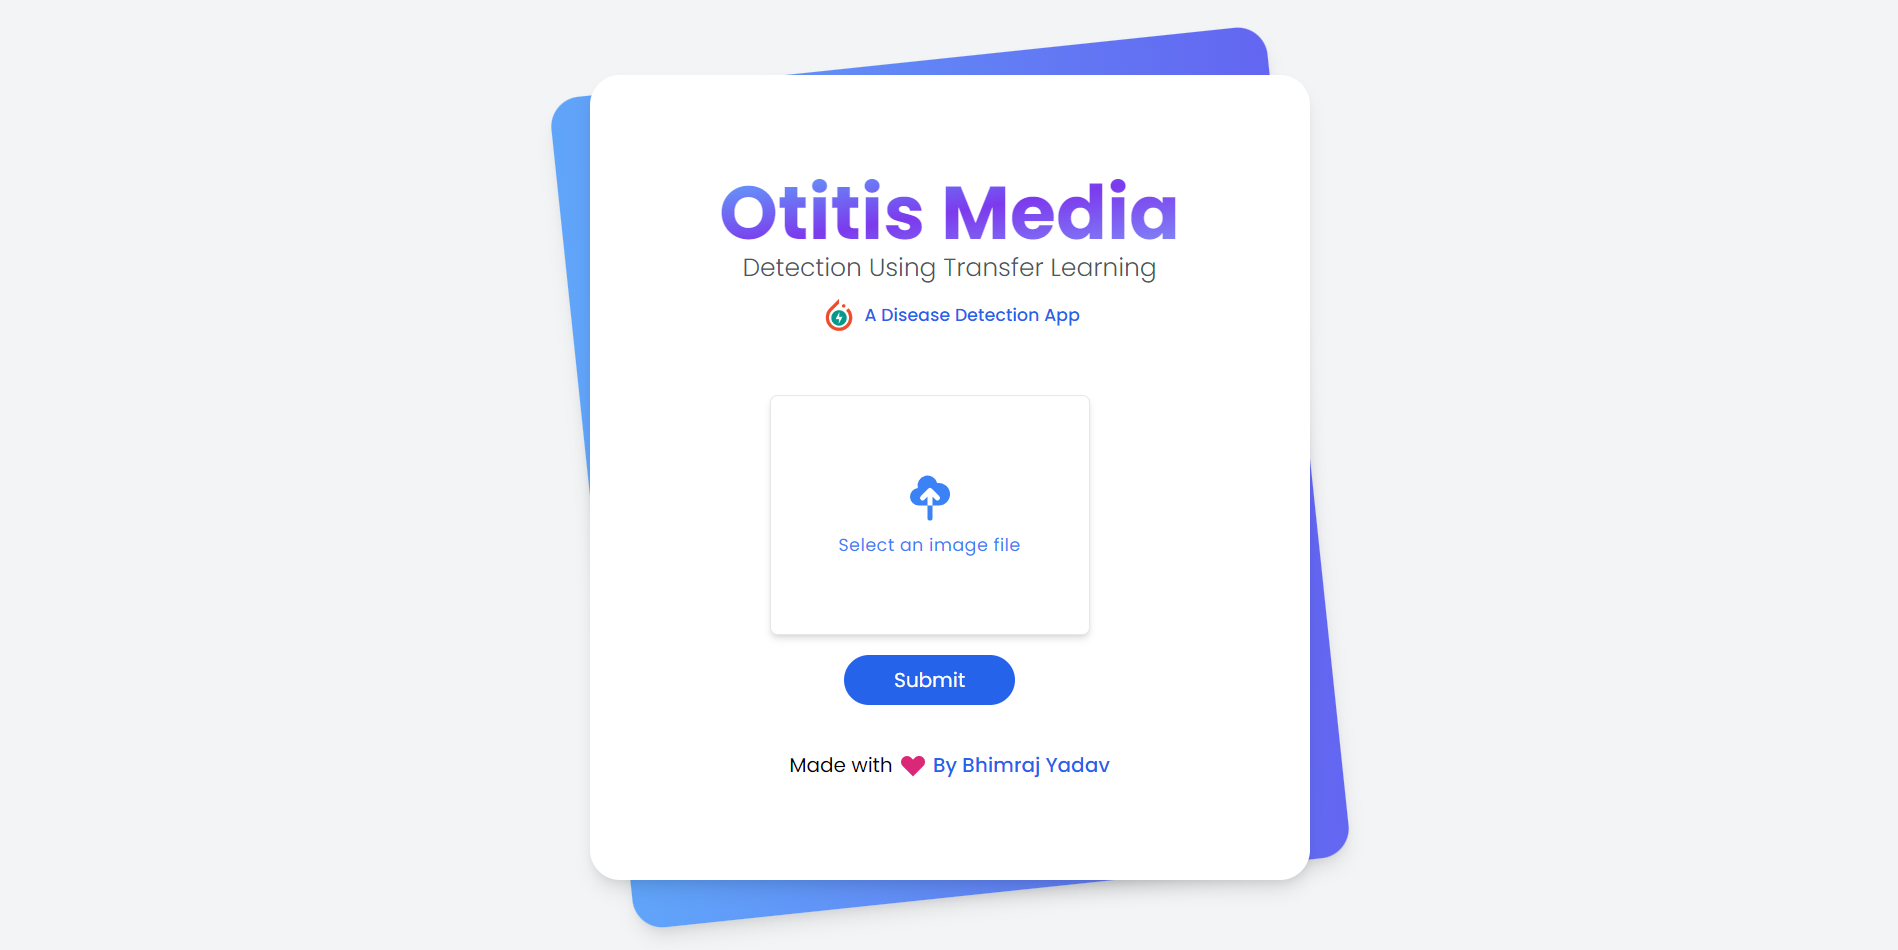
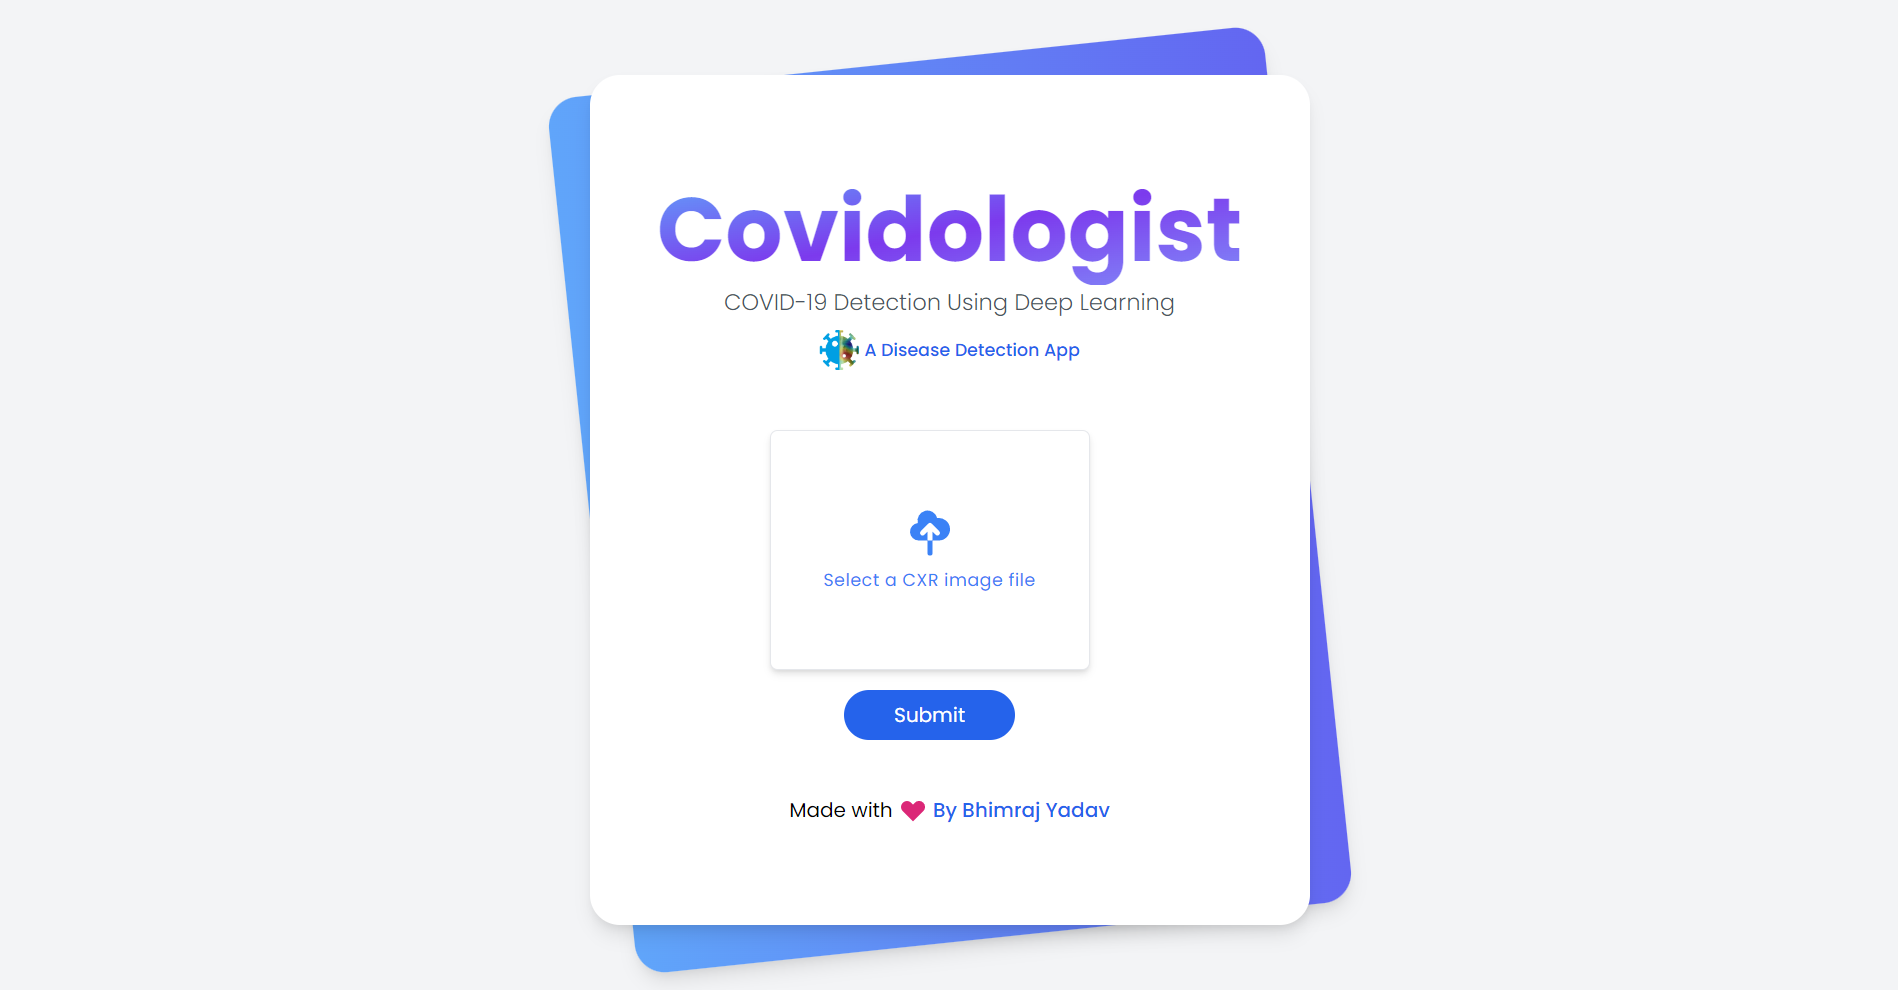
Updated

diff --git a/app/templates/index.html b/app/templates/index.html
@@ -5,7 +5,7 @@
     <meta charset="UTF-8">
     <meta http-equiv="X-UA-Compatible" content="IE=edge">
     <meta name="viewport" content="width=device-width, initial-scale=1.0">
-    <title>Otitis Media Detection App using FastAPI and PyTorch </title>
+    <title>COVIDOLOGIST : COVID-19 Detection App using FastAPI and PyTorch </title>
     <link href="https://unpkg.com/tailwindcss@^2/dist/tailwind.min.css" rel="stylesheet">
 
     <link rel="preconnect" href="https://fonts.googleapis.com">
@@ -13,19 +13,19 @@
     <link
         href="https://fonts.googleapis.com/css2?family=Poppins:ital,wght@0,100;0,200;0,300;0,400;0,500;0,600;0,700;0,800;1,100;1,200;1,300;1,400;1,500;1,600;1,700&display=swap"
         rel="stylesheet">
-    <meta name="title" content="Otitis Media Detection App using FastAPI and PyTorch | By Bhimraj Yadav">
-    <meta name="description" content="Otitis Media Detection App using FastAPI and PyTorch | By Bhimraj Yadav">
+    <meta name="title" content="COVIDOLOGIST : COVID-19 Detection App using FastAPI and PyTorch | By Bhimraj Yadav">
+    <meta name="description" content="COVIDOLOGIST : COVID-19 Detection App using FastAPI and PyTorch | By Bhimraj Yadav">
 
     <meta property="og:type" content="website">
     <meta property="og:url" content="https://fastapi-pytorch-app.herokuapp.com/">
-    <meta property="og:title" content="Otitis Media Detection App using FastAPI and PyTorch | By Bhimraj Yadav">
-    <meta property="og:description" content="Otitis Media Detection App using FastAPI and PyTorch | By Bhimraj Yadav">
+    <meta property="og:title" content="COVIDOLOGIST : COVID-19 Detection App using FastAPI and PyTorch | By Bhimraj Yadav">
+    <meta property="og:description" content="COVIDOLOGIST : COVID-19 Detection App using FastAPI and PyTorch | By Bhimraj Yadav">
     <meta property="og:image" content="https://fastapi-pytorch-app.herokuapp.com/static/images/landing-page.png">
     <meta property="twitter:card" content="summary_large_image">
     <meta property="twitter:url" content="https://academy-bhimraj-com-np.vercel.app">
-    <meta property="twitter:title" content="Otitis Media Detection App using FastAPI and PyTorch | By Bhimraj Yadav">
+    <meta property="twitter:title" content="COVIDOLOGIST : COVID-19 Detection App using FastAPI and PyTorch | By Bhimraj Yadav">
     <meta property="twitter:description"
-        content="Otitis Media Detection App using FastAPI and PyTorch | By Bhimraj Yadav">
+        content="COVIDOLOGIST : COVID-19 Detection App using FastAPI and PyTorch | By Bhimraj Yadav">
     <meta property="twitter:image" content="https://fastapi-pytorch-app.herokuapp.com/static/images/landing-page.png">
     <link rel="canonical" href="/">
     <link rel="icon" type="image/png" href="{{ url_for('static', path='/icons/icon.png') }}" />
@@ -42,9 +42,8 @@
             <div class="flex flex-col space-y-2 items-center">
                 <h1 class="font-bold text-center flex flex-col">
                     <span
-                        class="text-6xl text-transparent bg-clip-text bg-gradient-to-br from-blue-400 via-purple-600 to-indigo-400">Otitis
-                        Media</span>
-                    <small class="text-gray-600 text-xl font-light">Detection Using Transfer Learning</small>
+                        class="text-7xl text-transparent py-2 bg-clip-text bg-gradient-to-br from-blue-400 via-purple-600 to-indigo-400">Covidologist</span>
+                    <small class="text-gray-600 text-lg font-light">COVID-19 Detection Using Deep Learning</small>
 
                     <div class="flex flex-row items-center justify-center space-x-1 flex-shrink-0 py-2">
                         <img class="h-8 w-8" src="{{ url_for('static', path='/icons/icon-128x128.png') }}" alt="logo">
@@ -71,7 +70,7 @@
                             </path>
                             <path d="M9 13h2v5a1 1 0 11-2 0v-5z"></path>
                         </svg>
-                        <span class="mt-2 text-sm">Select an image file</span>
+                        <span class="mt-2 text-sm">Select a CXR image file</span>
 
                         <input type='file' class="hidden" name="file" accept="image/*" required />
                     </label>
@@ -109,7 +108,7 @@
                                 d="M3.172 5.172a4 4 0 015.656 0L10 6.343l1.172-1.171a4 4 0 115.656 5.656L10 17.657l-6.828-6.829a4 4 0 010-5.656z"
                                 clip-rule="evenodd"></path>
                         </svg></span>
-                    <span class="font-medium text-blue-600 hover:text-blue-700">By Bhimraj Yadav</span>
+                    <a href="https://github.com/bhimrazy" target="_blank"><span class="font-medium text-blue-600 hover:text-blue-700 transition">By Bhimraj Yadav</span></a>
                 </div>
             </div>
         </div>
